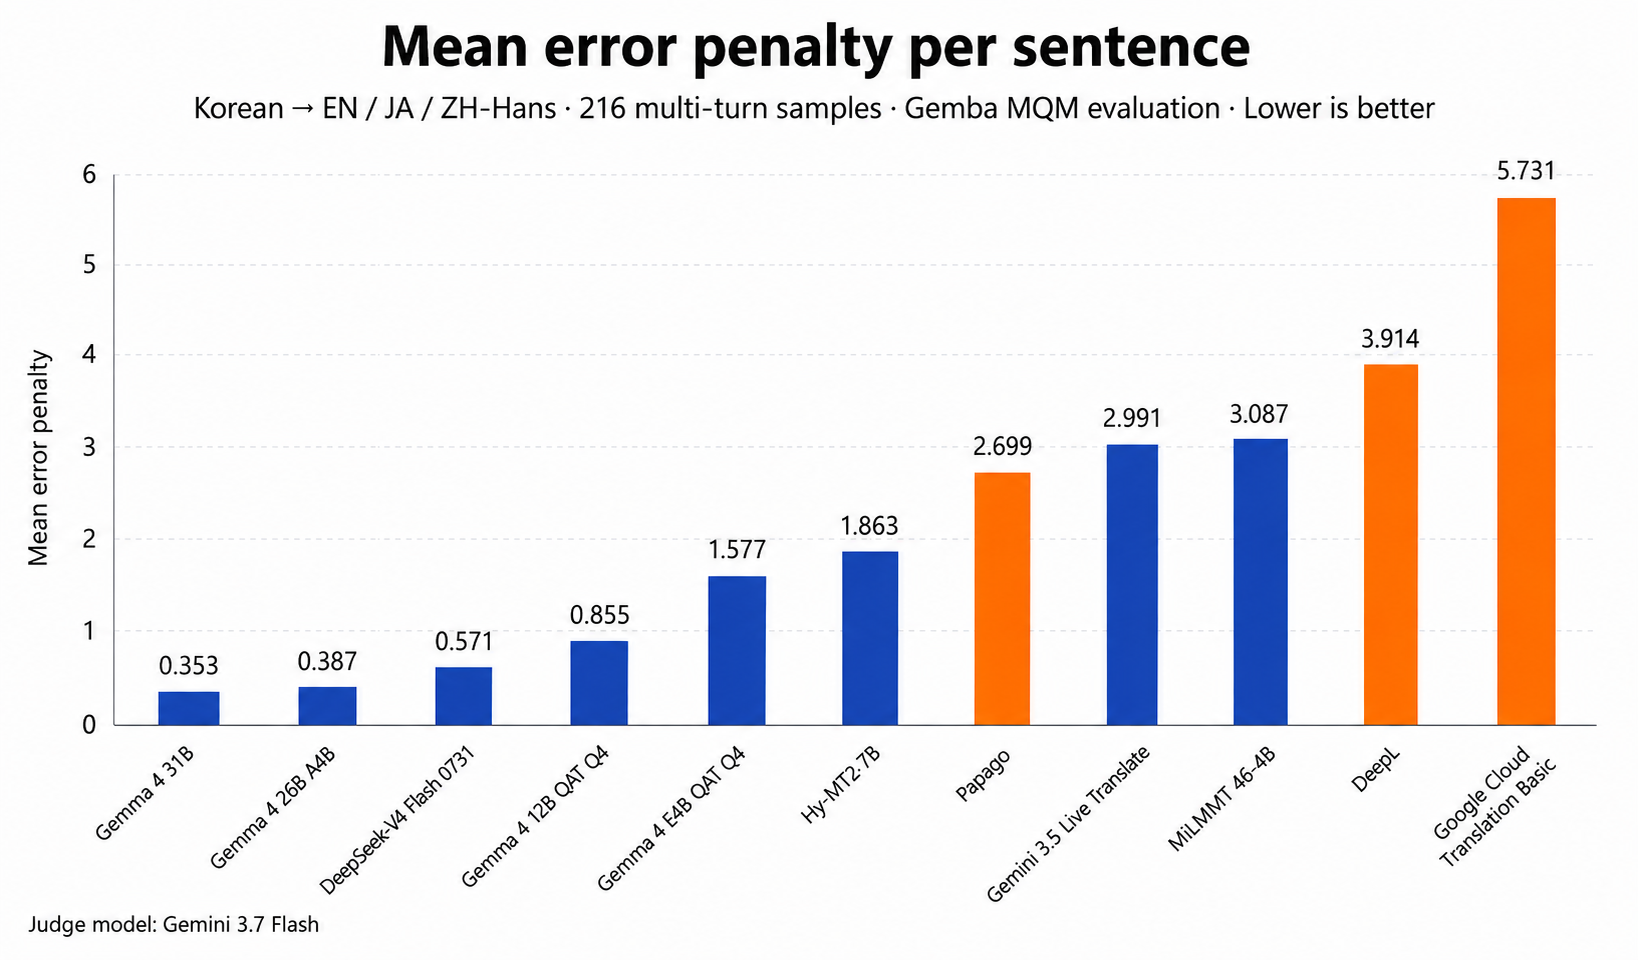
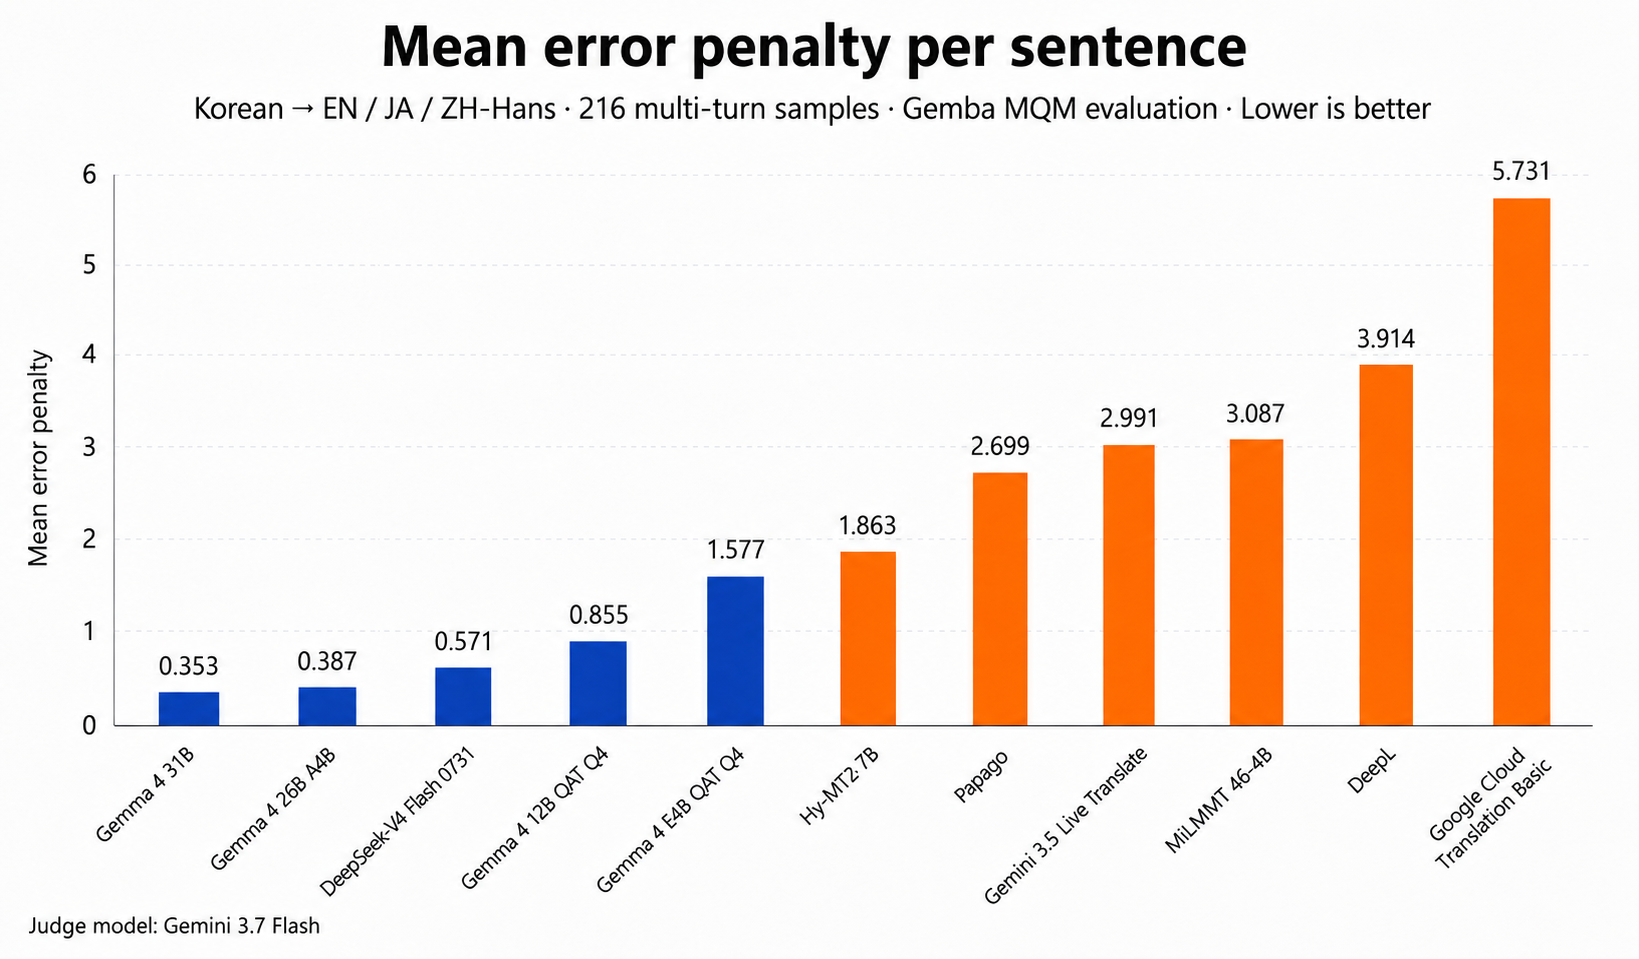
docs(readme): refresh benchmark chart and sync header, architecture, and support notes across languages

diff --git a/README.md b/README.md
@@ -2,7 +2,9 @@
   <img src="src/puripuly_heart/data/icons/icon.png" alt="PuriPuly — Real-Time Two-Way Voice Translator for VRChat" width="128" />
 </p>
 
-<h1 align="center">PuriPuly — Real-Time Two-Way Voice Translator for VRChat</h1>
+<h1 align="center">PuriPuly</h1>
+
+<h2 align="center">Real-Time Two-Way Voice Translator for VRChat</h2>
 
 <p align="center">
   <img src="https://img.shields.io/badge/version-2.5.0-blue" alt="Version" />
@@ -87,6 +89,7 @@ It works in many environments, including VRChat and Discord.
 ## Translation Comparison
 ![Translation quality benchmark chart. Mean error penalty per sentence (lower is better), ranked by model: 1st Gemma 4 31B (0.353), 2nd Gemma 4 26B A4B (0.387), 3rd DeepSeek V4 Flash 0731 (0.571), 4th Gemma 4 E4B QAT Q4 (1.577), 5th Papago (2.699), 6th Gemini 3.5 Live Translate (2.991), 7th MiLMMT 46-4B (3.087), 8th DeepL (3.914), 9th Google Cloud Translation Basic (5.731).](docs/images/performance/1.png)
 
+- The blue bars are the models available in PuriPuly.
 - We ran the experiment using Microsoft's Gemba MQM framework.
 - It was set up as a multi-turn environment to better resemble real conversation.
 - For the full results, see [here](https://github.com/kapitalismho/korean-llm-context-translation-benchmark).
@@ -179,7 +182,7 @@ GPU inference runs on Vulkan. It works regardless of the vendor — Radeon or Ar
 
 ---
 
-# If you run into problems or anything feels unclear, feel free to DM me on [Twitter/X](https://x.com/kapitalismho).
+# If you run into problems, please DM me on [Twitter/X](https://x.com/kapitalismho).
 
 ## Usage
 
@@ -437,10 +440,7 @@ The tier transition may take a moment.
 
 ## Architecture
 
-<picture>
-  <source media="(prefers-color-scheme: dark)" srcset="docs/architecture-dark.png">
-  <img src="docs/architecture-light.png" alt="PuriPuly Heart hexagonal architecture: core runtimes surrounded by eight port adapters">
-</picture>
+![PuriPuly Heart hexagonal architecture: core runtimes surrounded by eight port adapters](docs/architecture-light.png)
 
 See [`ARCHITECTURE.md`](ARCHITECTURE.md).
 
